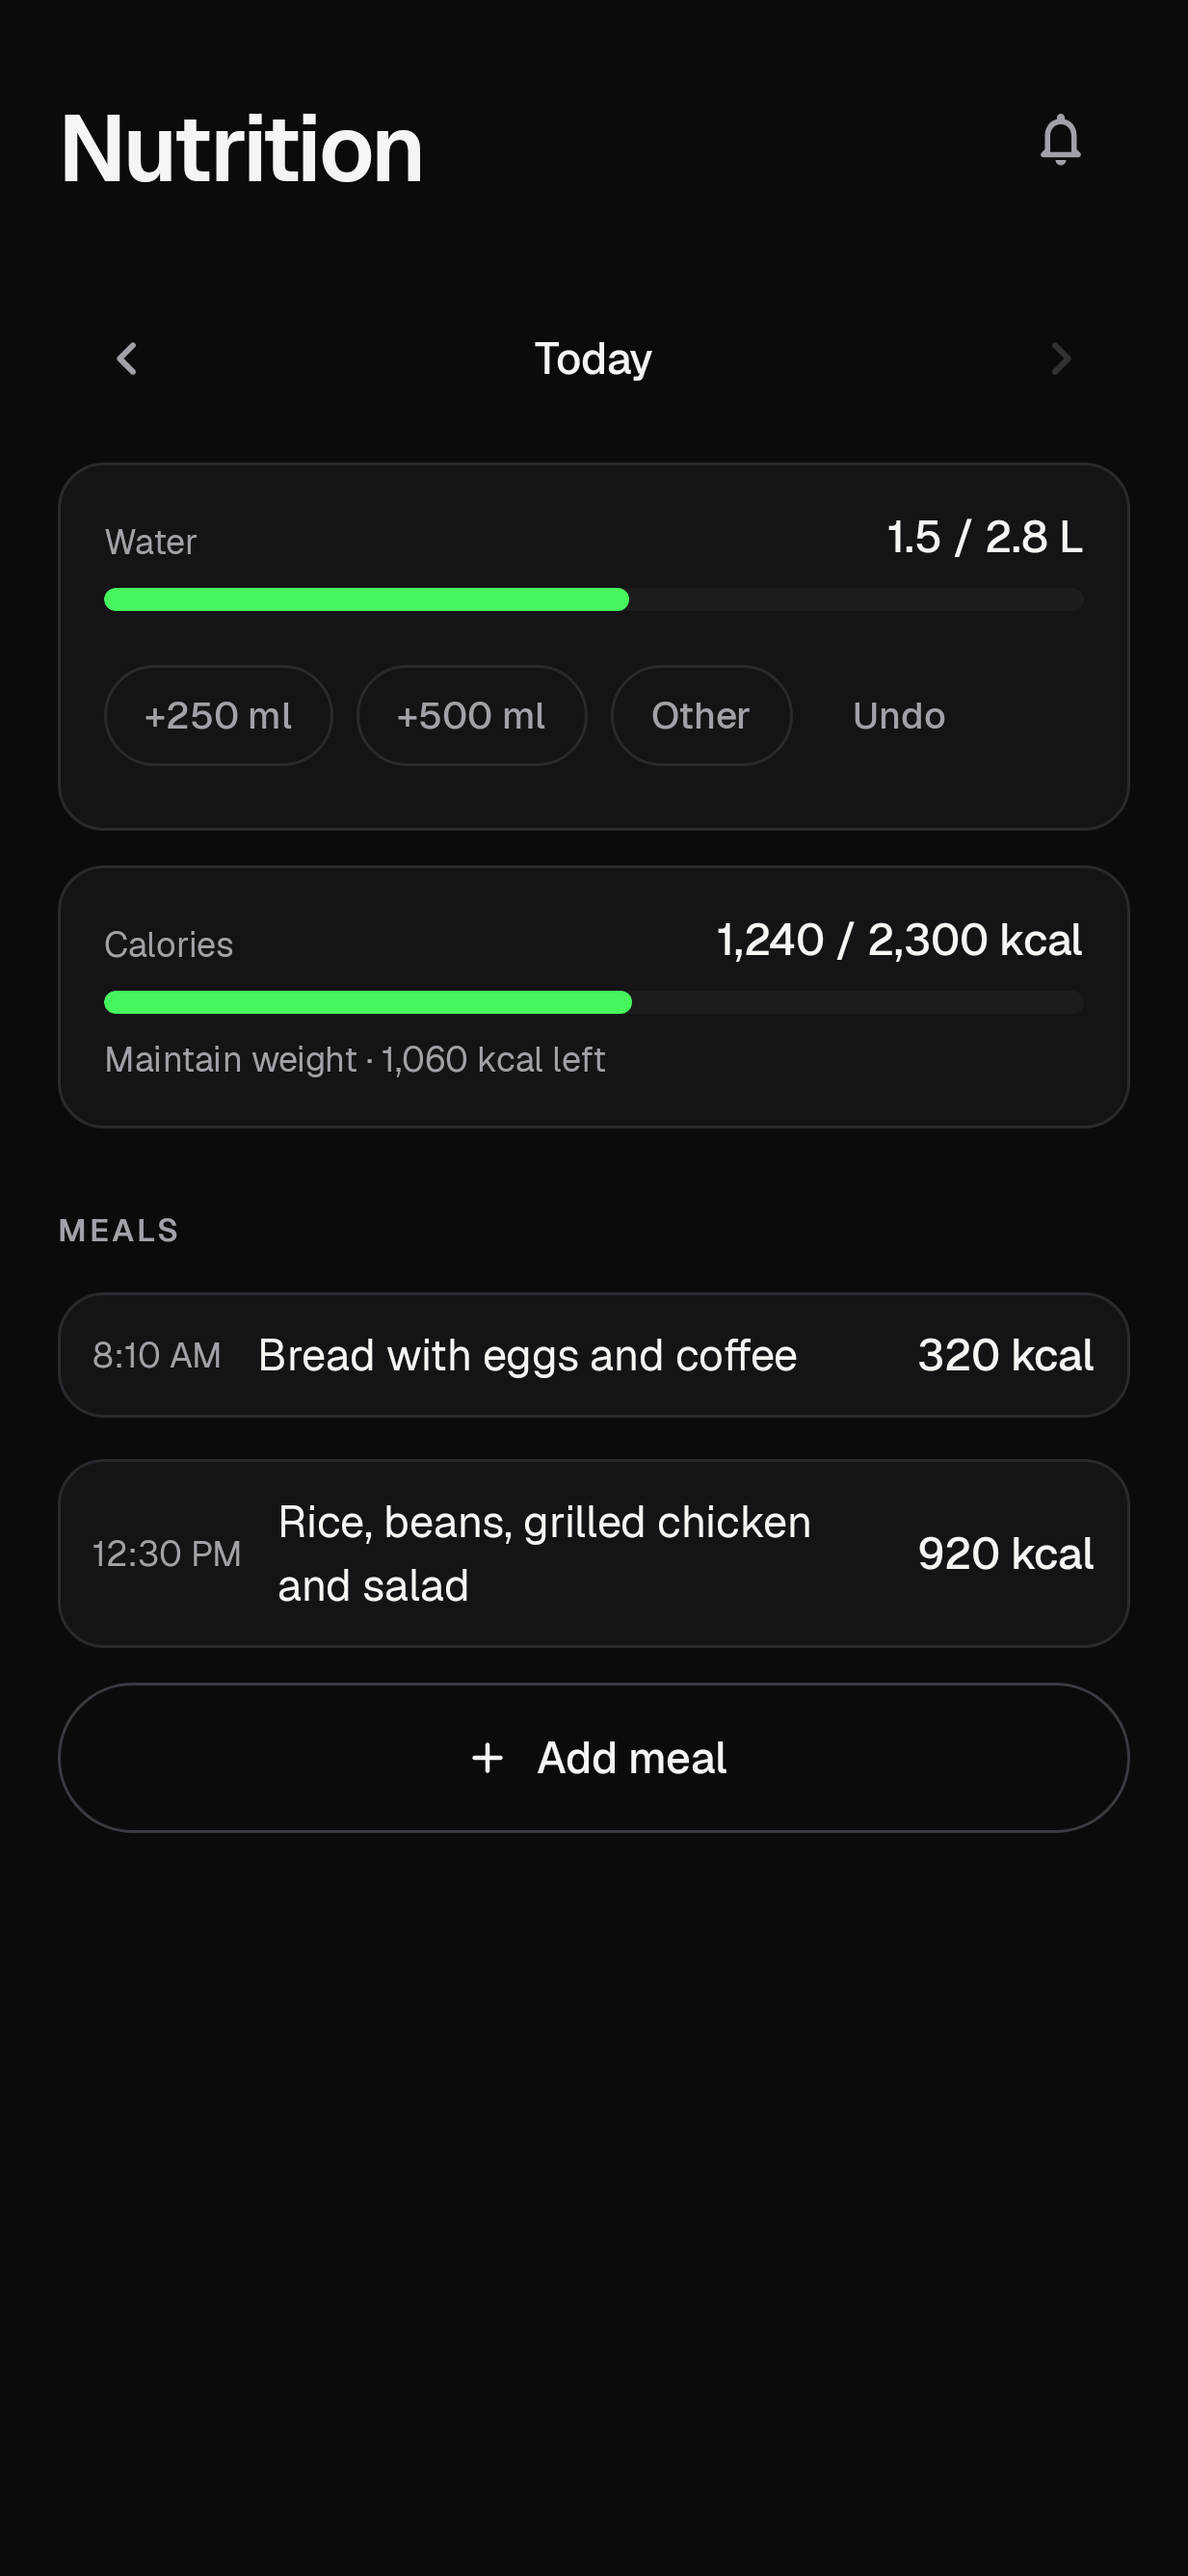
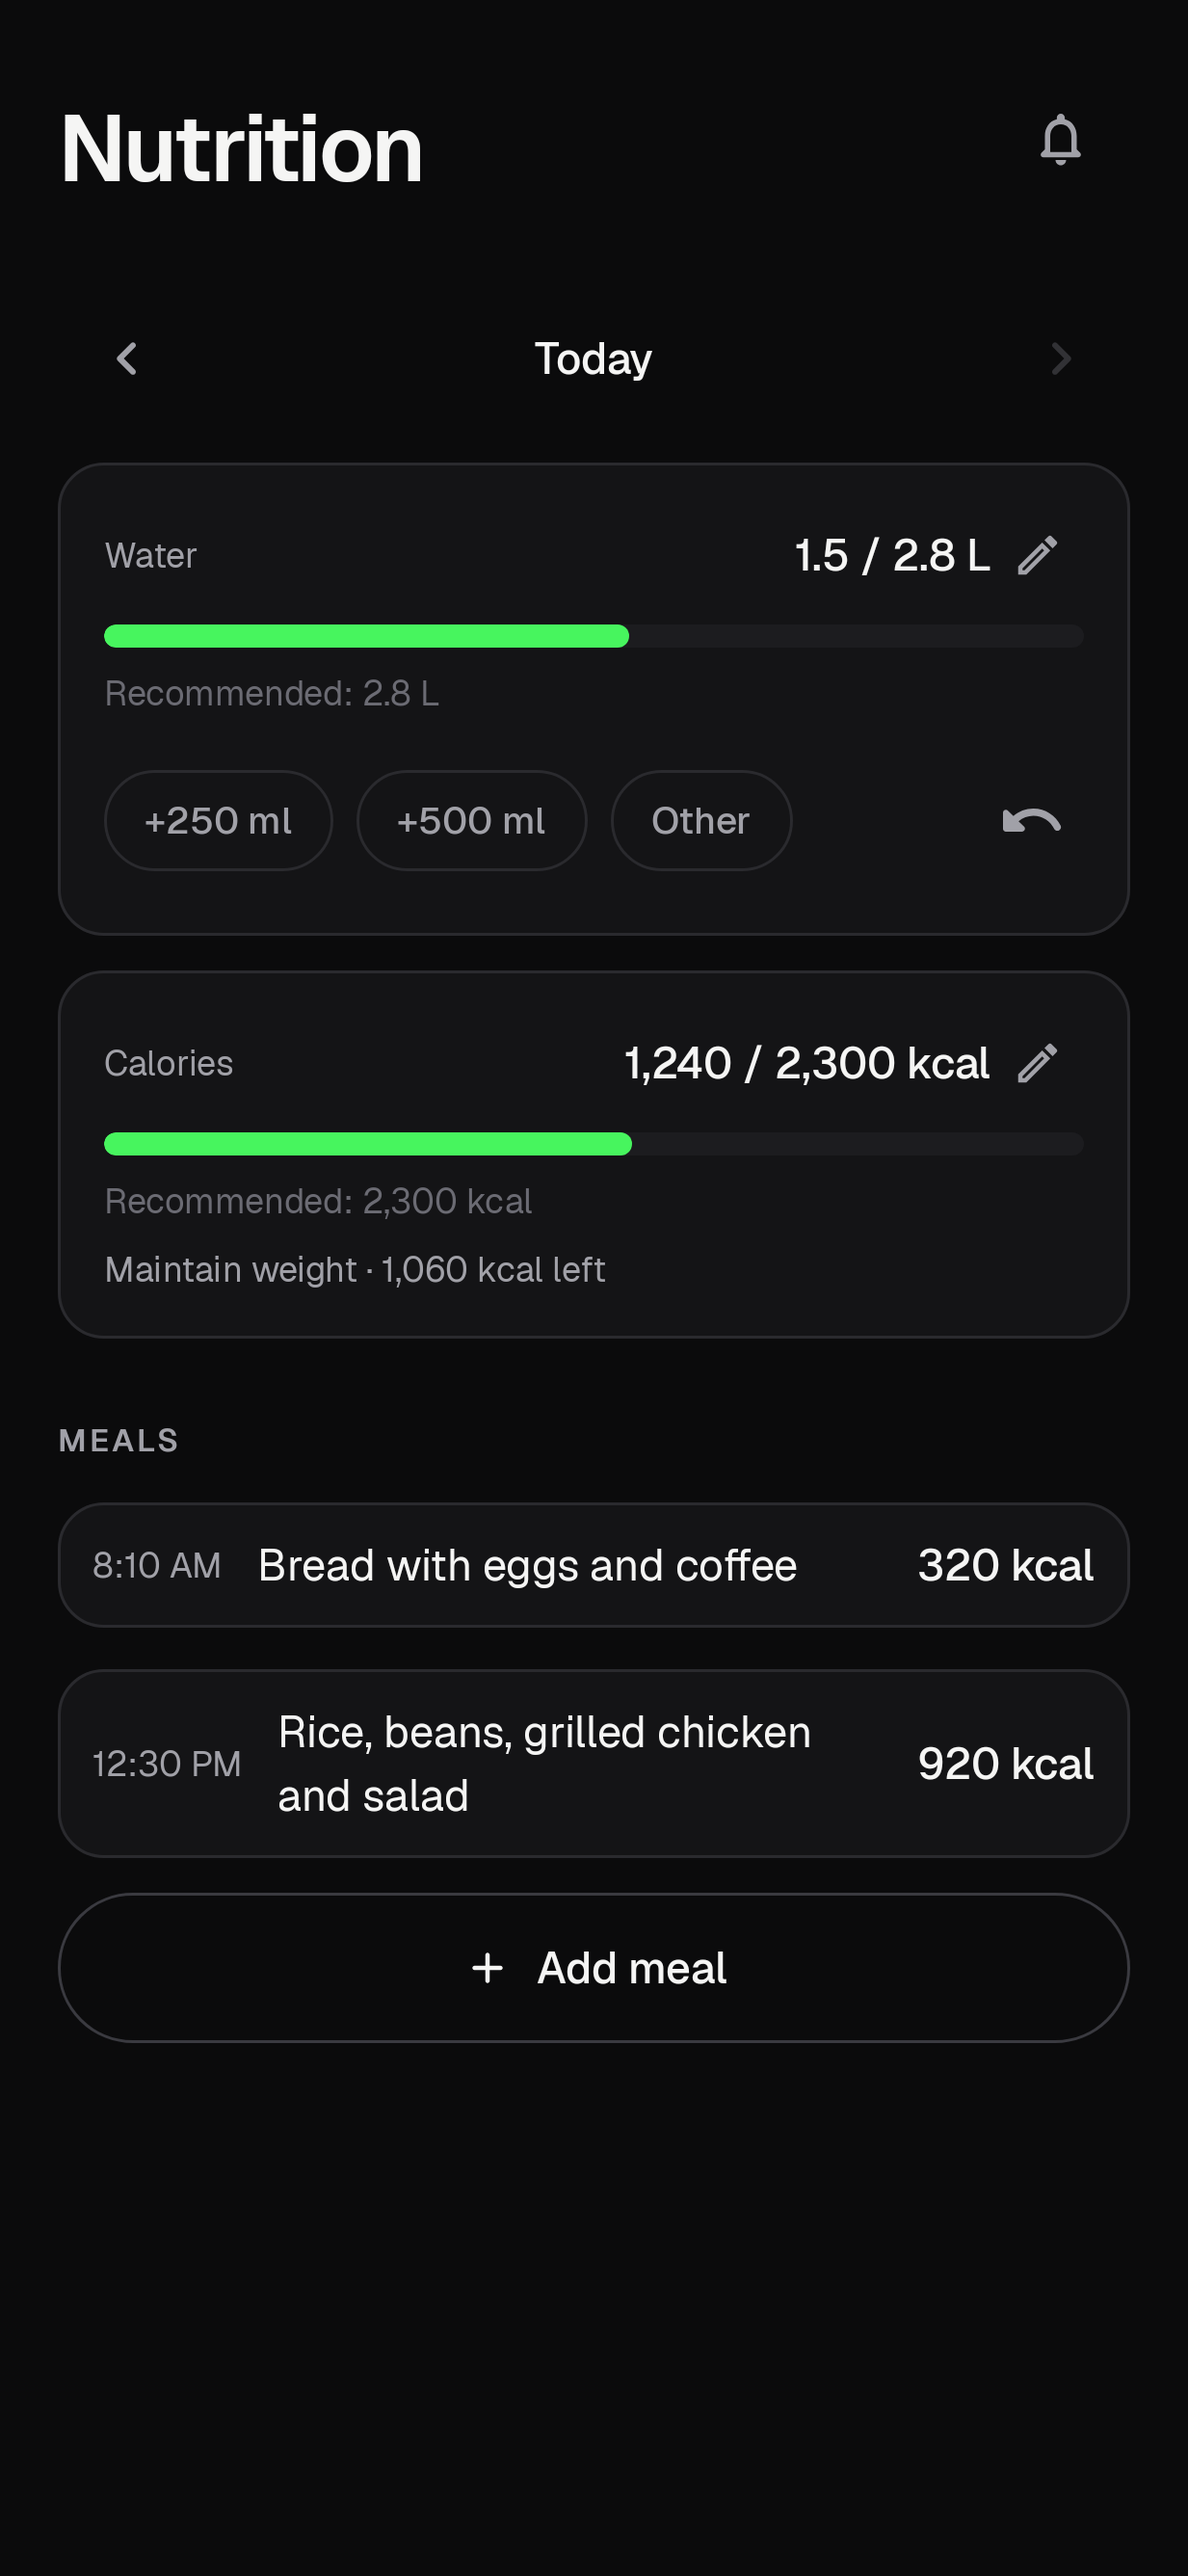
fix(nutrition): pencils keep an own target equal to the recommended one; fill-in hint under the ring on Home

diff --git a/app/src/test/java/io/github/luannamorim/myfit/ui/feature/nutrition/NutritionTodayCardsNarrowTest.kt b/app/src/test/java/io/github/luannamorim/myfit/ui/feature/nutrition/NutritionTodayCardsNarrowTest.kt
@@ -2,10 +2,12 @@ package io.github.luannamorim.myfit.ui.feature.nutrition
 
 import androidx.compose.foundation.layout.Box
 import androidx.compose.foundation.layout.padding
+import androidx.compose.foundation.layout.width
 import androidx.compose.ui.Modifier
 import androidx.compose.ui.test.assertIsDisplayed
 import androidx.compose.ui.test.getBoundsInRoot
 import androidx.compose.ui.test.junit4.v2.createComposeRule
+import androidx.compose.ui.test.onAllNodesWithTag
 import androidx.compose.ui.test.onNodeWithTag
 import androidx.compose.ui.test.onNodeWithText
 import androidx.compose.ui.unit.dp
@@ -16,6 +18,7 @@ import io.github.luannamorim.myfit.domain.nutrition.Meal
 import io.github.luannamorim.myfit.domain.nutrition.NutritionDay
 import io.github.luannamorim.myfit.domain.nutrition.NutritionGoal
 import io.github.luannamorim.myfit.domain.nutrition.NutritionStatus
+import io.github.luannamorim.myfit.domain.nutrition.TargetMissing
 import io.github.luannamorim.myfit.ui.theme.MyFitTheme
 import io.github.luannamorim.myfit.ui.theme.Spacing
 import org.junit.Assert.assertTrue
@@ -50,5 +53,27 @@ class NutritionTodayCardsNarrowTest {
         val card = compose.onNodeWithTag("nutritionCard_kcal").getBoundsInRoot()
         val text = detail.getBoundsInRoot()
         assertTrue("detail $text outside card $card", text.bottom <= card.bottom - 8.dp && text.right <= card.right)
+    }
+
+    @Test
+    fun fillInHint_goesUnderTheRing_notSqueezedBesideIt_onA360dpPhone() {
+        val today = LocalDate.of(2026, 11, 17)
+        compose.setContent {
+            MyFitTheme(ThemeMode.DARK) {
+                Box(Modifier.width(360.dp).padding(horizontal = Spacing.screen)) { // a 360 dp phone
+                    NutritionTodayCards(
+                        NutritionStatus(
+                            NutritionDay(today, emptyList(), 0, 0),
+                            DailyTargets(null, null, setOf(TargetMissing.WEIGHT, TargetMissing.HEIGHT, TargetMissing.SEX, TargetMissing.BIRTH_DATE)),
+                            NutritionGoal.MAINTAIN,
+                        ),
+                        onOpen = {},
+                    )
+                }
+            }
+        }
+        val hint = compose.onNodeWithText("Preencha: peso, altura, sexo, data de nascimento", useUnmergedTree = true).getBoundsInRoot()
+        val ring = compose.onAllNodesWithTag("nutritionRing", useUnmergedTree = true)[1].getBoundsInRoot()
+        assertTrue("hint $hint should start under the ring $ring", hint.left < ring.right && hint.top >= ring.bottom)
     }
 }

diff --git a/app/src/main/java/io/github/luannamorim/myfit/ui/feature/nutrition/NutritionTodayCards.kt b/app/src/main/java/io/github/luannamorim/myfit/ui/feature/nutrition/NutritionTodayCards.kt
@@ -102,17 +102,16 @@ private fun RingCard(
         Row(verticalAlignment = Alignment.CenterVertically) {
             Ring(percent, ringColor)
             Spacer(Modifier.width(Spacing.s + Spacing.xs))
-            Column(Modifier.weight(1f)) {
-                Text(detail, style = MyFitTheme.type.caption, color = c.textSecondary)
-                if (missing.isNotEmpty()) {
-                    Text(
-                        stringResource(R.string.nutrition_fill, missing.map { stringResource(missingName(it)) }.joinToString(", ")),
-                        style = MyFitTheme.type.caption,
-                        color = c.accent,
-                        modifier = Modifier.padding(top = Spacing.xs),
-                    )
-                }
-            }
+            Text(detail, style = MyFitTheme.type.caption, color = c.textSecondary, modifier = Modifier.weight(1f))
+        }
+        // Under the ring at the card's full width: beside it (~46 dp on a 360 dp phone) it broke words mid-way.
+        if (missing.isNotEmpty()) {
+            Text(
+                stringResource(R.string.nutrition_fill, missing.map { stringResource(missingName(it)) }.joinToString(", ")),
+                style = MyFitTheme.type.caption,
+                color = c.accent,
+                modifier = Modifier.padding(top = Spacing.s),
+            )
         }
     }
 }
@@ -122,7 +121,7 @@ private fun RingCard(
 private fun Ring(percent: Int?, color: Color) {
     val c = MyFitTheme.colors
     val track = c.surfaceRaised
-    Box(Modifier.size(RING_SIZE), contentAlignment = Alignment.Center) {
+    Box(Modifier.size(RING_SIZE).testTag("nutritionRing"), contentAlignment = Alignment.Center) {
         Canvas(Modifier.size(RING_SIZE)) {
             val stroke = RING_STROKE.toPx()
             val topLeft = Offset(stroke / 2, stroke / 2)

diff --git a/app/src/main/java/io/github/luannamorim/myfit/ui/feature/nutrition/NutritionViewModel.kt b/app/src/main/java/io/github/luannamorim/myfit/ui/feature/nutrition/NutritionViewModel.kt
@@ -36,6 +36,9 @@ data class NutritionUiState(
     val goal: NutritionGoal = NutritionGoal.MAINTAIN,
     /** The two quick water buttons, in ml (editable with the pencil). */
     val waterButtons: List<Int> = AppSettings.DEFAULT_WATER_BUTTONS_ML,
+    /** The user's own targets (null = recommended): the pencils prefill from these, not from a guess. */
+    val customWaterMl: Int? = null,
+    val customKcal: Int? = null,
 ) {
     /** No future days. */
     val canGoForward: Boolean get() = date < today
@@ -61,8 +64,11 @@ class NutritionViewModel @Inject constructor(
     val state: StateFlow<NutritionUiState> = combine(shownDay, today) { day, t -> minOf(LocalDate.ofEpochDay(day), t) to t }
         .distinctUntilChanged()
         .flatMapLatest { (d, t) ->
-            combine(tracker.observe(d), settings.settings.map { it.waterButtonsMl }.distinctUntilChanged()) { status, buttons ->
-                NutritionUiState(loading = false, date = d, today = t, day = status.day, targets = status.targets, goal = status.goal, waterButtons = buttons)
+            combine(tracker.observe(d), settings.settings.distinctUntilChanged()) { status, s ->
+                NutritionUiState(
+                    loading = false, date = d, today = t, day = status.day, targets = status.targets, goal = status.goal,
+                    waterButtons = s.waterButtonsMl, customWaterMl = s.customWaterMl, customKcal = s.customKcal,
+                )
             }
         }
         .stateIn(viewModelScope, SharingStarted.WhileSubscribed(5_000), NutritionUiState())

diff --git a/app/src/test/java/io/github/luannamorim/myfit/ui/feature/nutrition/NutritionContentTest.kt b/app/src/test/java/io/github/luannamorim/myfit/ui/feature/nutrition/NutritionContentTest.kt
@@ -128,6 +128,24 @@ class NutritionContentTest {
     }
 
     @Test
+    fun ownTargetEqualToTheRecommended_isKept_whenSavingTheButtons() {
+        val saved = mutableListOf<Pair<Int?, List<Int>>>()
+        val kcal = mutableListOf<Int?>()
+        show(
+            state(targets = DailyTargets(2300, 2800, emptySet())).copy(customWaterMl = 2800, customKcal = 2300),
+            NutritionActions(onSetWater = { t, b -> saved += t to b }, onSetKcalTarget = { kcal += it }),
+        )
+        compose.onNodeWithContentDescription("Editar botões de água").performClick()
+        compose.onNodeWithText("Botão 1").performTextClearance()
+        compose.onNodeWithText("Botão 1").performTextInput("300")
+        compose.onNodeWithText("Salvar").performClick()
+        assertEquals(listOf<Pair<Int?, List<Int>>>(2800 to listOf(300, 500)), saved) // still the user's own 2.8 L
+        compose.onNodeWithContentDescription("Editar meta de calorias").performClick()
+        compose.onNodeWithText("Salvar").performClick()
+        assertEquals(listOf<Int?>(2300), kcal)
+    }
+
+    @Test
     fun kcalTarget_hasAPencil_andTheRecommendedAlwaysShows() {
         val saved = mutableListOf<Int?>()
         show(state(targets = DailyTargets(2500, 2800, emptySet(), recommendedKcal = 2300, recommendedWaterMl = 2800)), NutritionActions(onSetKcalTarget = { saved += it }))

diff --git a/app/src/main/java/io/github/luannamorim/myfit/ui/feature/nutrition/NutritionScreen.kt b/app/src/main/java/io/github/luannamorim/myfit/ui/feature/nutrition/NutritionScreen.kt
@@ -229,7 +229,7 @@ private fun WaterCard(state: NutritionUiState, actions: NutritionActions) {
         if (editingButtons) {
             Spacer(Modifier.height(Spacing.m))
             WaterEditor(
-                customMl = state.targets.waterMl?.takeIf { it != state.targets.recommendedWaterMl },
+                customMl = state.customWaterMl,
                 recommendedMl = state.targets.recommendedWaterMl,
                 buttons = state.waterButtons,
                 onSave = { t, b -> actions.onSetWater(t, b); editingButtons = false },
@@ -334,7 +334,7 @@ private fun CaloriesCard(state: NutritionUiState, actions: NutritionActions) {
         if (editing) {
             Spacer(Modifier.height(Spacing.m))
             KcalEditor(
-                customKcal = target?.takeIf { it != recommended },
+                customKcal = state.customKcal,
                 recommendedKcal = recommended,
                 onSave = { actions.onSetKcalTarget(it); editing = false },
                 onCancel = { editing = false },

diff --git a/app/src/test/java/io/github/luannamorim/myfit/ui/feature/nutrition/NutritionViewModelTest.kt b/app/src/test/java/io/github/luannamorim/myfit/ui/feature/nutrition/NutritionViewModelTest.kt
@@ -171,6 +171,8 @@ class NutritionViewModelTest {
         vm.setKcalTarget(2500)
         vm.setWater(3200, listOf(300, 600))
         val s = vm.state.awaitUntil { it.targets.kcal == 2500 && it.targets.waterMl == 3200 }
+        assertEquals(2500, s.customKcal)
+        assertEquals(3200, s.customWaterMl)
         assertEquals(2120, s.targets.recommendedKcal)
         assertEquals(2800, s.targets.recommendedWaterMl)
         assertEquals(listOf(300, 600), s.waterButtons)

diff --git a/docs/TESTING.md b/docs/TESTING.md
@@ -94,7 +94,7 @@ UI labels are quoted in English; on a phone set to Portuguese, the same labels a
 - [ ] Turning a reminder's switch off stops it.
 
 ### 6b. Nutrition
-- [ ] The tab bar shows Home, Workouts, History, Progress and Nutrition; the gear next to the bell on Home opens Settings, and back returns to Home.
+- [ ] The tab bar shows Home, Workouts, History, Progress and Nutrition; the gear on Home opens Settings, and back returns to Home.
 - [ ] *Settings → Profile*: set the birth date (no future dates; "Clear" removes it) and the goal. With weight, height, sex and birth date set, Nutrition shows a water target (35 ml per kg) and a calorie target; a card without a target shows only what was logged (e.g. "1.5 L", "1,240 kcal") and "Fill in: …", which opens Progress or Settings.
 - [ ] Own targets: the pencil on the water card sets the day's target in liters (and the buttons), the pencil on the calories card the kcal target; "Recommended: …" stays under each bar, and "Use recommended (…)" goes back to it. Home's rings and the water reminder follow your target.
 - [ ] Water: +250 ml, +500 ml and *Other* (type an amount) add up; the ↶ icon in the card's right corner removes the last one. The pencil next to the total edits the two buttons' amounts (e.g. 300 and 600 ml); the water reminder's button uses the first one.

diff --git a/SPEC.md b/SPEC.md
@@ -106,7 +106,7 @@ MyFit is a single-user app: fast during the workout, 100% local, with encrypted 
 27c. SHOULD offer an *Ask AI* button that hands the meal description to any AI app through the Android share sheet, so the user can type back the calories it estimates. The app itself never goes online.
 27b'. MAY let the user set their own daily water and calorie targets, always showing the recommendation next to them.
 27d. SHOULD show today's water and calories on Home as the percent of each target (rings), opening the Nutrition tab.
-27e. SHOULD remind the user to eat at chosen daily times and to drink water every 1–3 hours inside a daily window (fixed times; a water reminder is skipped once today's target is reached), with a "+250 ml" action that logs water without opening the app.
+27e. SHOULD remind the user to eat at chosen daily times and to drink water every 1–3 hours inside a daily window (fixed times; a water reminder is skipped once today's target is reached), with a "+X ml" action (the first water button) that logs water without opening the app.
 
 ### Backup and data
 
